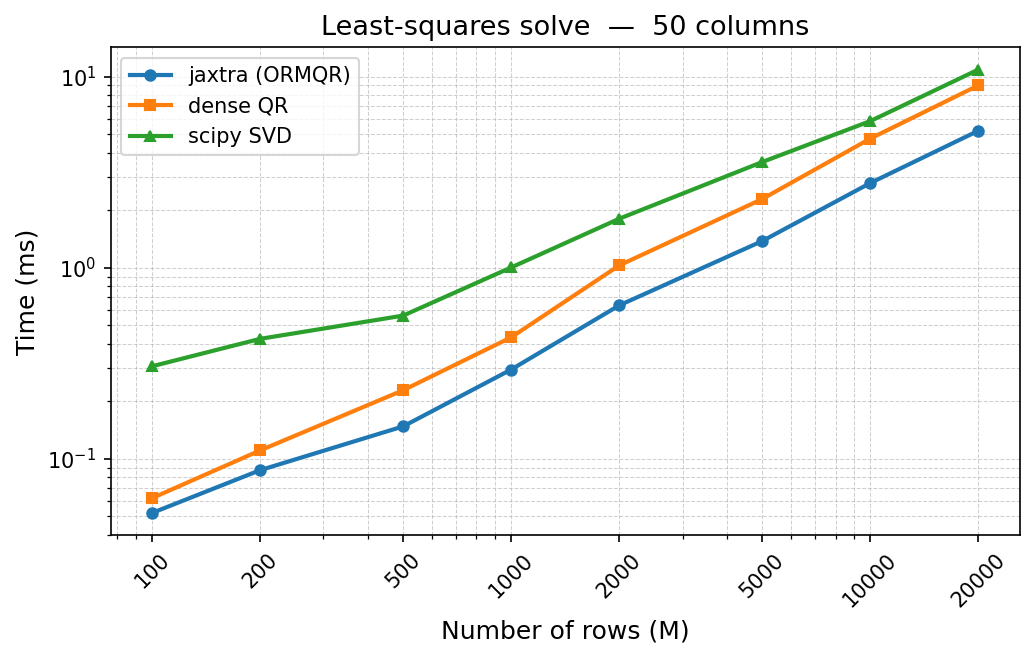
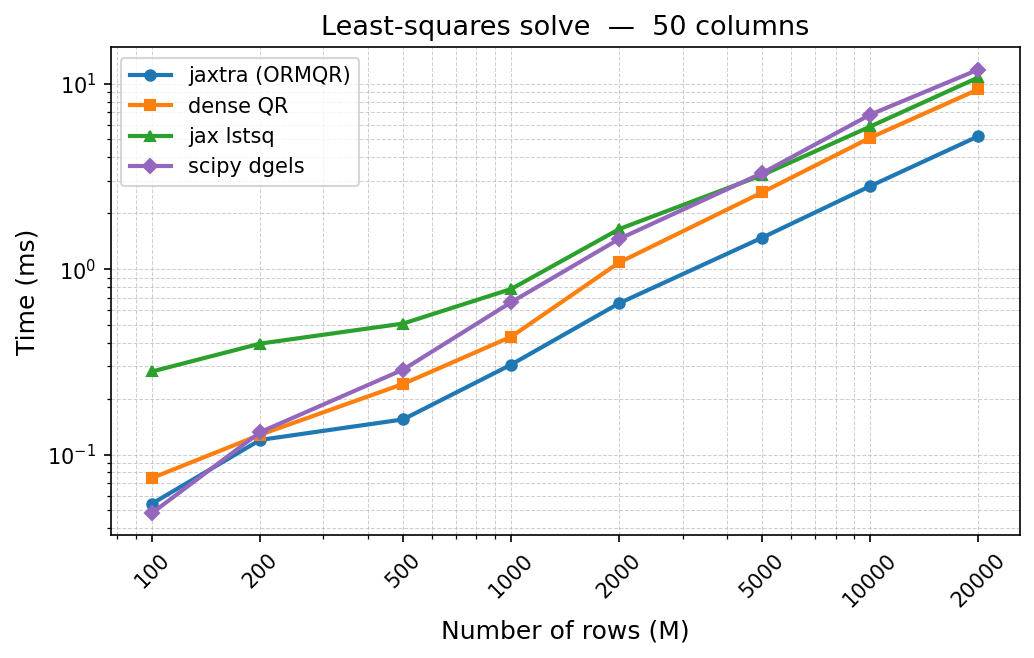
rerun benchmarks against gels

diff --git a/benchmarks/bench_least_squares.py b/benchmarks/bench_least_squares.py
@@ -74,6 +74,8 @@ def _scipy_gels_solve(A_np, b_np):
     return b1[:A_np.shape[1], 0]
 
 
+
+
 # ---------------------------------------------------------------------------
 # Timing helpers
 # ---------------------------------------------------------------------------
@@ -174,11 +176,8 @@ for n_cols in COL_COUNTS:
             t_gels = time_numpy_fn(_scipy_gels_solve, A_np, b_np,
                                      n_warmup=N_WARMUP, n_repeat=N_REPEAT)
             records.append({"n_rows": n_rows, "n_cols": n_cols,
-                             "method": "scipy gels", "time_ms": t_gels * 1e3})
+                             "method": "scipy dgels", "time_ms": t_gels * 1e3})
             row += f"  {t_gels*1e3:17.2f}"
-            gels_ratio = f"{t_gels/t_jaxtra:8.2f}x"
-        else:
-            gels_ratio = ""
 
         row += (f"  {t_dense/t_jaxtra:6.2f}x"
                 f"  {t_lstsq/t_jaxtra:8.2f}x")
